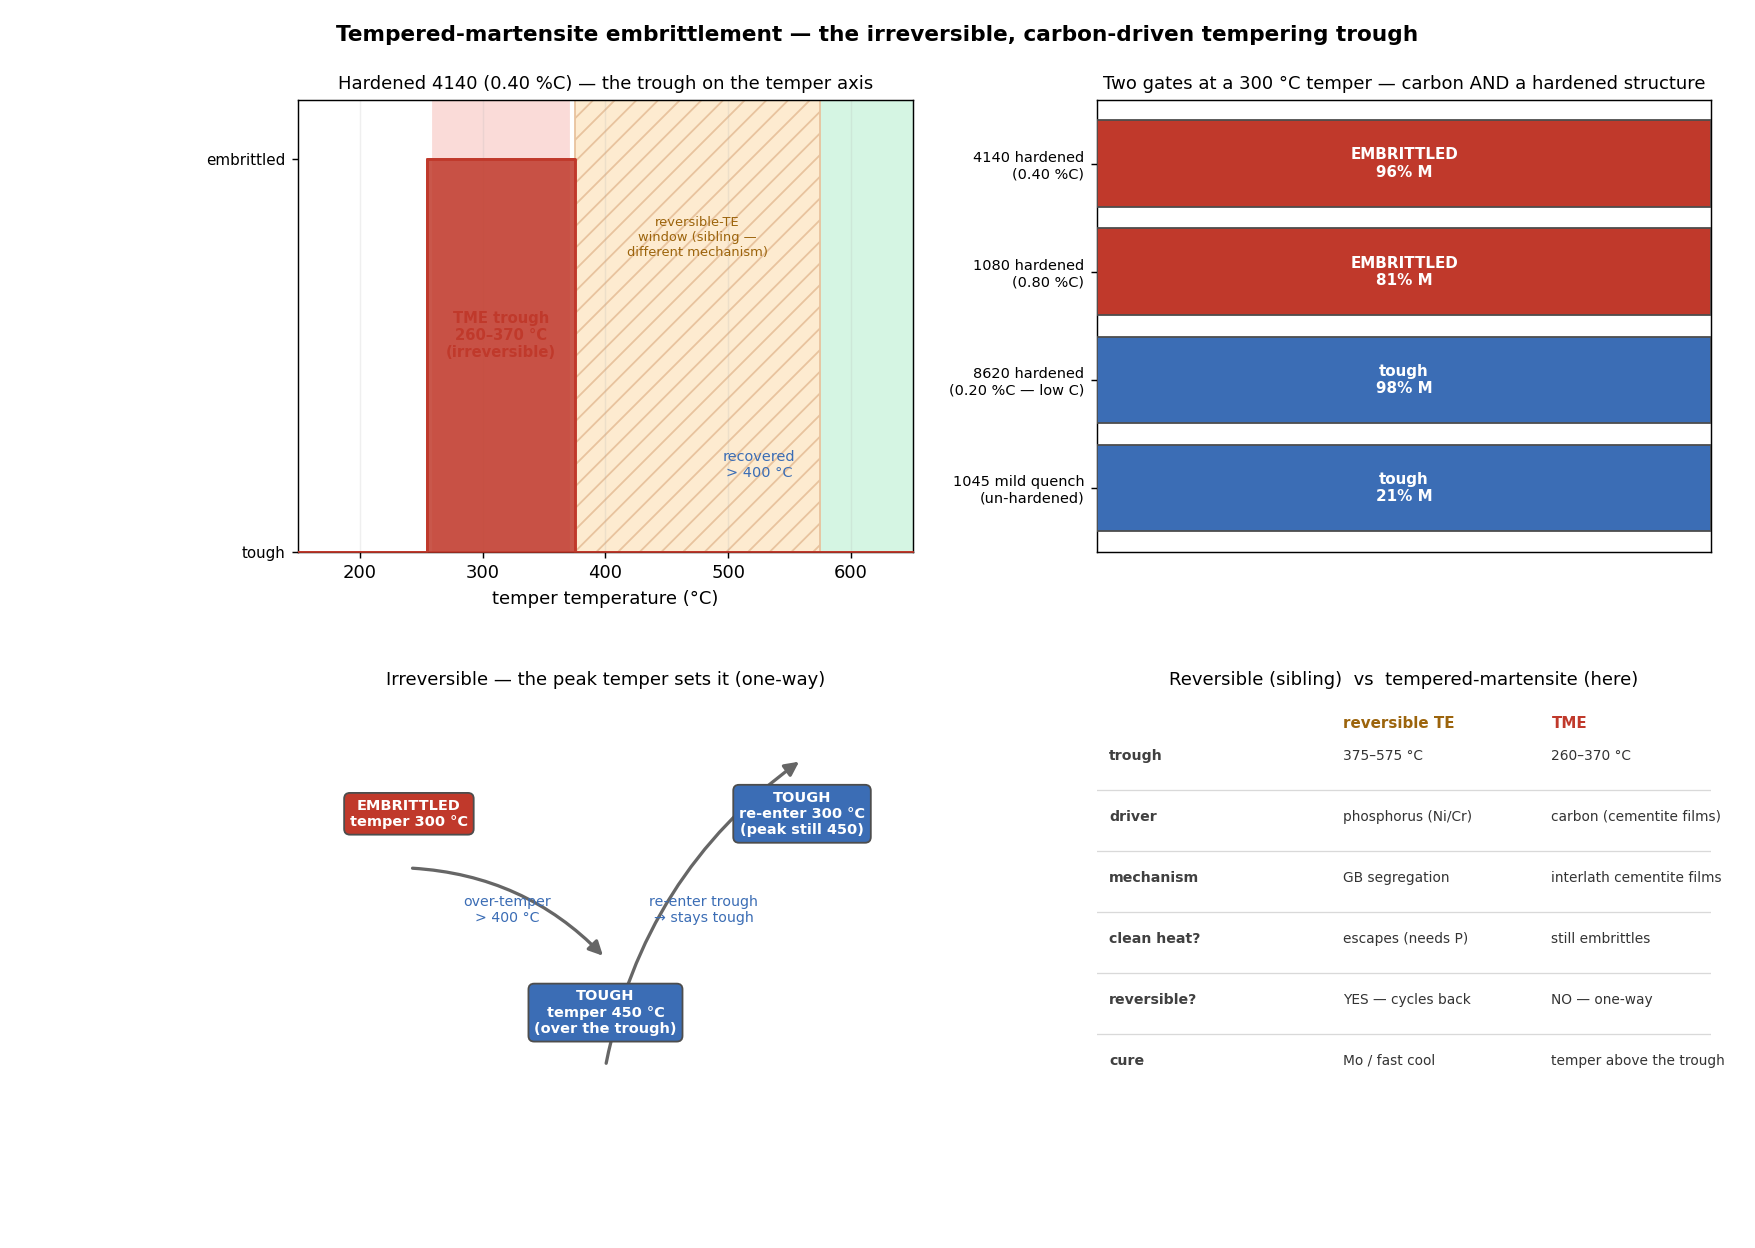
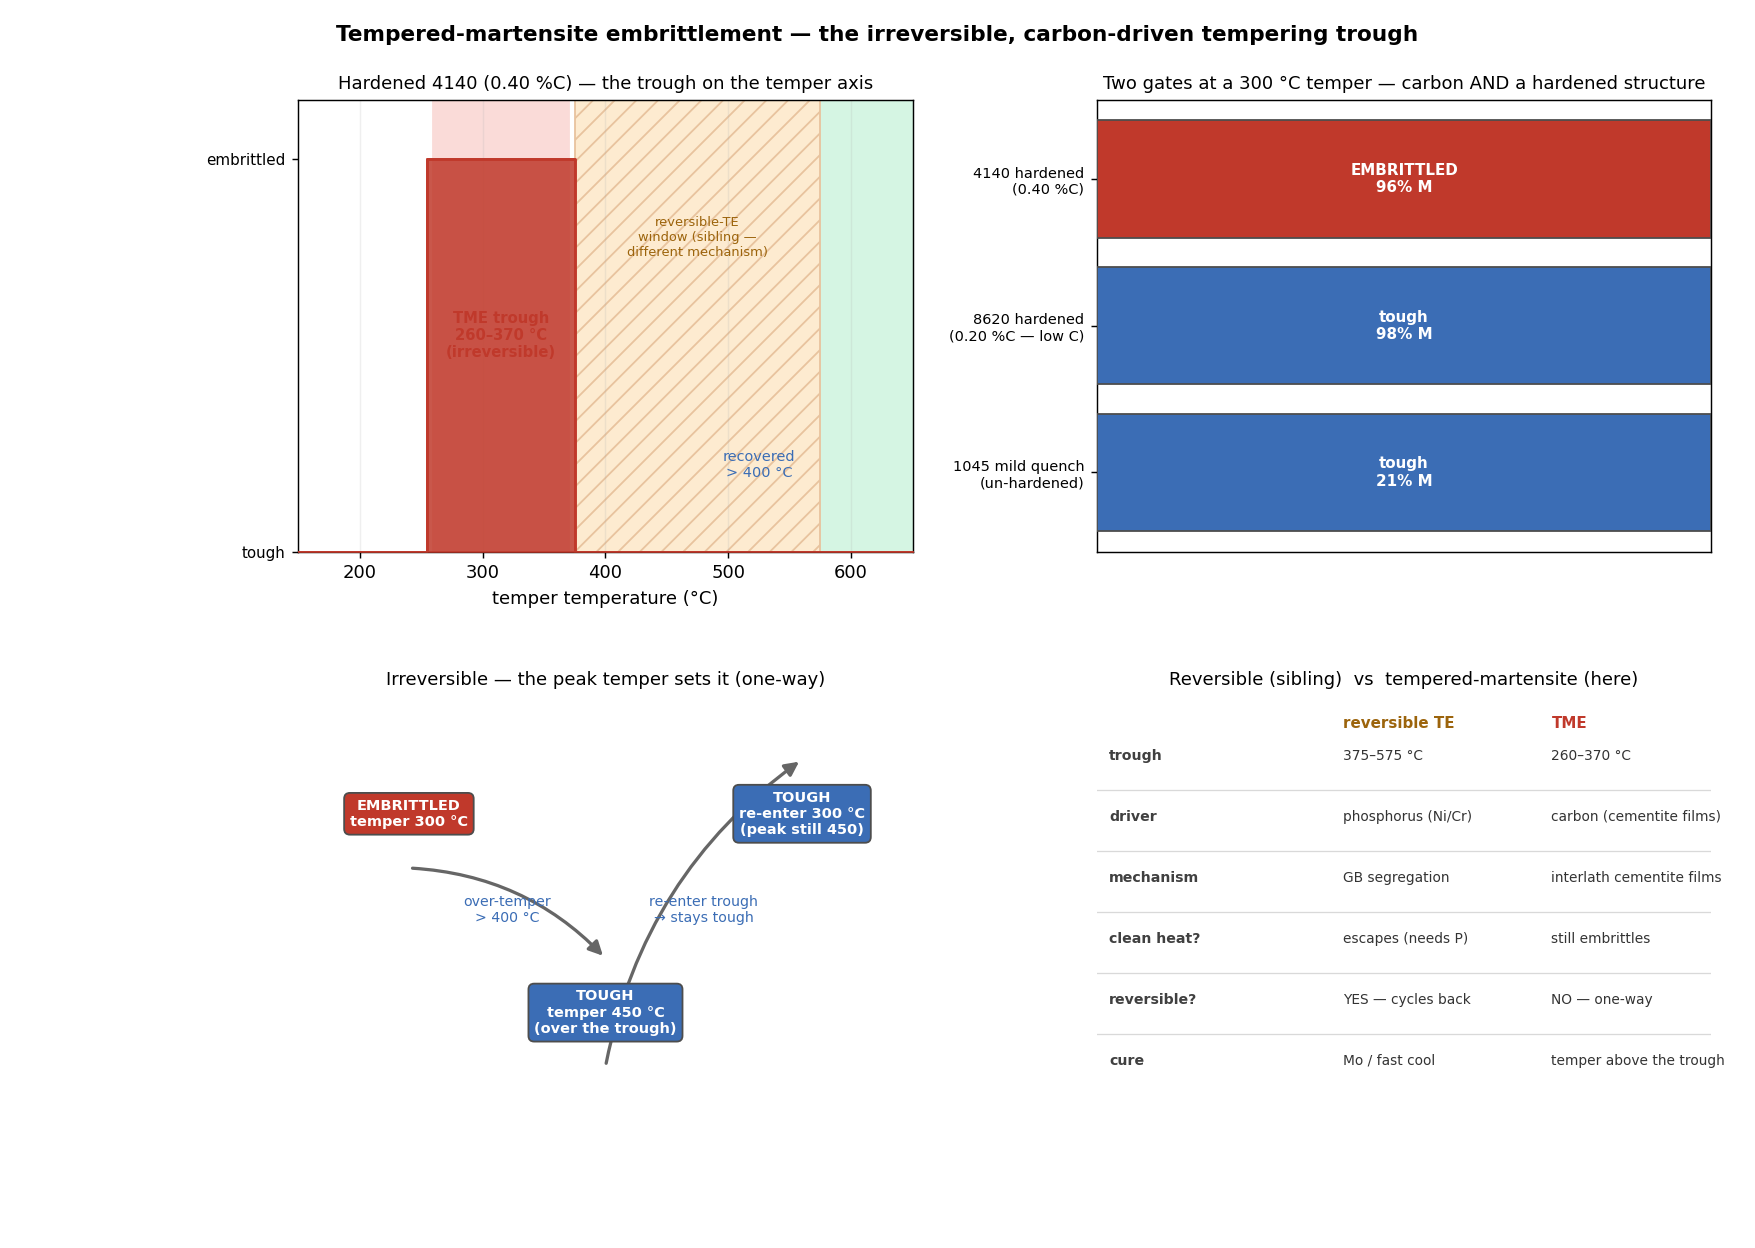
refactor(tempered-martensite-embrittlement): keep the discriminator to lath grades; fix the above-trough verdict string
Advisor final-review polish (both non-blocking):

- Drop the 1080 (0.80 %C) case from the demo discriminator. The carbon gate
  fixed the inverted *ranking*, but flagging high-carbon *plate* martensite as
  embrittled-by-"interlath-retained-austenite-film-decomposition" over-reaches:
  that mechanism is a lath-martensite (<=~0.5 %C) phenomenon; 1080 is embrittled
  at 300 C but by a related cementite-on-twin/PAG-boundary path. The module
  docstring already carried this caveat, so the demo contradicted it. The
  discriminator now stays on lath grades (4140 hero, 8620 carbon-gate miss,
  1045-mild martensitic-gate miss); a no-upper-bound caveat is added to the
  docstring.

- Fix the verdict string for a peak temper in (370, 400): it fell through to
  "tempered below the trough" though it is above, recovering. The embrittled
  flag was already correct; only the human-readable string was wrong.

Suite 742 green / 2 skipped, no engine touch, no ADR.

Changed region(s): [[0.5538, 0.0938, 0.9846, 0.4062], [0.5538, 0.375, 0.6154, 0.4062], [0.5538, 0.125, 0.6154, 0.1562]]

diff --git a/steel/tempered_martensite_embrittlement.py b/steel/tempered_martensite_embrittlement.py
@@ -62,7 +62,10 @@ martensite to embrittle and TME falls out as immune, while a fully-hardened medi
 severity driver: *bulk* RA fraction ranks eutectoid (high-C **plate**-martensite) steels highest, where the
 interlath-film mechanism does not apply — the "looks faithful, physically inverted" trap. Carbon drives the
 gate; the demonstrator confirms low-carbon martensite (e.g. case-hardening 8620 at 0.20 %C) is immune even when
-fully hardened. **Named deferrals:** the absolute toughness-trough depth (no Charpy-J — the back-end
+fully hardened. The carbon gate itself carries **no upper bound** — very-high-carbon *plate* martensite
+(eutectoid 1080) tempered in the trough also embrittles, but by a *related* cementite-on-twin / prior-austenite-
+boundary path, **not** the interlath-RA-film mechanism this slice narrates; so the demonstrator stays on the
+lath-martensite (≲ 0.5 %C) grades the mechanism actually describes. **Named deferrals:** the absolute toughness-trough depth (no Charpy-J — the back-end
 ``toughness_index`` ceiling stands), the P-aggravation magnitude, and the explicit ε→Fe₃C carbide sequence.
 Units: wt % for composition, °C for temperature.
 """
@@ -134,6 +137,8 @@ class TemperedMartensiteEmbrittlement:
             return "low-carbon martensite — too little carbon to form the embrittling cementite films"
         if self.recovered:
             return "over-tempered above the trough — tough, and immune to re-entering it (one-way)"
+        if self.peak_temper_C > TME_WINDOW_C[1]:
+            return "tempered just above the trough — recovering (tough)"
         return "tempered below the trough — no cementite films (yet)"
 
 

diff --git a/steel/tests/test_tempered_martensite_embrittlement.py b/steel/tests/test_tempered_martensite_embrittlement.py
@@ -39,6 +39,13 @@ def test_above_the_recovery_is_tough_and_recovered():
     assert a.recovered and (not a.in_trough) and (not a.embrittled)
 
 
+def test_just_above_the_trough_reads_recovering_not_below():
+    # The (370, 400) band: above the trough, not yet at the recovery threshold — the verdict string must say
+    # "recovering", not "below the trough" (the flag is correctly tough either way).
+    a = tme.tempered_martensite_embrittlement_assessment(VICTIM, HARD, peak_temper_C=385.0)
+    assert (not a.embrittled) and (not a.recovered) and ("recovering" in a.verdict)
+
+
 def test_the_trough_edges_match_the_cited_window():
     lo, hi = tme.TME_WINDOW_C
     assert tme.tempered_martensite_embrittlement_assessment(VICTIM, HARD, peak_temper_C=lo).embrittled

diff --git a/steel/demo_tempered_martensite_embrittlement.py b/steel/demo_tempered_martensite_embrittlement.py
@@ -57,9 +57,12 @@ RECOVERY_TEMPER = 450.0                        # above the ~400 °C recovery —
 REVERSIBLE_WINDOW_C = (375.0, 575.0)           # the SIBLING trough (reversible TE) — marked for orientation only
 
 # Panel-2 discriminator: (label, steel, quench medium, diameter) — the two gates, each on a real quench.
+# Kept to the lath-martensite (≤ ~0.5 %C) grades the interlath-film mechanism describes: 4140 is the embrittled
+# hero, 8620 the carbon-gate miss, 1045-mild the martensitic-gate miss. High-carbon *plate*-martensite (1080)
+# also embrittles in the trough but by a related cementite-on-twin-boundary path — deliberately not shown, so
+# the panel does not attribute the interlath-film mechanism to a structure it does not describe.
 DISCRIMINATOR_CASES: tuple[tuple[str, Steel, str, float], ...] = (
     ("4140 hardened\n(0.40 %C)", STEELS["4140"], "oil", 0.010),
-    ("1080 hardened\n(0.80 %C)", STEELS["1080"], "water", 0.005),
     ("8620 hardened\n(0.20 %C — low C)", STEELS["8620"], "water", 0.005),
     ("1045 mild quench\n(un-hardened)", STEELS["1045"], "oil", 0.010),
 )

diff --git a/steel/tests/test_demo_tempered_martensite_embrittlement.py b/steel/tests/test_demo_tempered_martensite_embrittlement.py
@@ -19,10 +19,11 @@ def test_axis_map_embrittles_exactly_in_the_cited_trough():
 
 
 def test_two_gates_medium_carbon_embrittles_low_carbon_and_unhardened_do_not():
+    # Kept to lath-martensite grades the interlath-film mechanism describes (1080 plate-martensite deliberately
+    # not shown — it embrittles by a related path the panel must not attribute to this mechanism).
     d = compute()
     by_label = {lab.split(chr(10))[0]: emb for lab, _C, _M, emb in d.discriminator}
-    assert by_label["4140 hardened"] is True       # medium-carbon, hardened → embrittled
-    assert by_label["1080 hardened"] is True        # high-carbon, hardened → embrittled
+    assert by_label["4140 hardened"] is True       # medium-carbon, hardened → embrittled (the hero)
     assert by_label["8620 hardened"] is False       # low carbon (0.20 %C) → immune even fully hardened
     assert by_label["1045 mild quench"] is False    # un-hardened → no tempered martensite to embrittle
 

diff --git a/docs/memory/tempered-martensite-embrittlement-built.md b/docs/memory/tempered-martensite-embrittlement-built.md
@@ -14,7 +14,7 @@ named as the back-end `properties.toughness_index` ceiling but never modelled. N
 → the **`tempered-martensite-embrittled`** flag (mirrors `heat_treat`/`hot_work`/`temper_embrittlement`).
 Tempering as-quenched martensite in **260–370 °C** precipitates cementite as **films** on interlath /
 prior-austenite boundaries (Horn–Ritchie 1978: fed by interlath retained-austenite decomposition) → toughness
-trough. Suite **741 green / 2 skipped** (+19), NO engine touch, NO ADR. Demo+figure+gallery card+README row.
+trough. Suite **742 green / 2 skipped** (+20), NO engine touch, NO ADR. Demo+figure+gallery card+README row.
 
 **The slice = the FOIL that completes the pair — opposite on every axis:** TME is **carbon-driven** (not
 impurity — a *clean* medium-carbon steel still embrittles, the headline distinction from reversible TE which
@@ -42,8 +42,17 @@ immune — no tempered martensite to embrittle; un-hardened 1045 at oil-10mm M=0
    *computed bulk retained austenite* (mechanistically the interlath-film source). But bulk RA ranks eutectoid
    **1080 (~0.18 RA, plate martensite)** as the worst victim — where the interlath-film mechanism does NOT apply
    — vs the textbook medium-C low-alloy (4140/4340/300M). → RA cited as **mechanism only**, **CARBON drives the
-   gate**. Discriminating check run before committing: flags 4140 (0.40C), 1080 (0.80C); **8620 (0.20 %C) immune
+   gate**. Discriminating check run before committing: flags 4140 (0.40C); **8620 (0.20 %C) immune
    even fully hardened** (M=0.98) — the low-carbon lath-martensite exemption.
+3. **(post-commit final review) the carbon gate's HIGH end re-opens the same trap — MECHANISM not ranking.**
+   Catch #2 fixed the *ranking*; the un-fixed half is attributing the *interlath-RA-film mechanism* to a
+   structure it doesn't describe. The carbon gate has no upper bound, so it flagged **1080 (0.80C, plate/twinned
+   martensite)** — which IS embrittled at 300 °C but by a *related* cementite-on-twin/PAG-boundary path, NOT the
+   interlath-film one the slice narrates (a lath-martensite, ≲0.5%C phenomenon). The flag isn't false; the
+   *attribution* over-reached. **Fix: dropped 1080 from the demo discriminator** (the demo's own test had
+   *codified* the over-reach — a self-check can't catch this, it only confirms the code does what the code does)
+   + a no-upper-bound caveat in the docstring. Discriminator kept to lath grades: 4140 hero, 8620 carbon-gate
+   miss, 1045-mild martensitic-gate miss.
 
 Registry has no 4340 → used **4140** (0.40C Cr-Mo) as the registry-grounded classic victim. Deferrals: absolute
 trough depth (no Charpy-J — back-end ceiling stands), P-aggravation magnitude, explicit ε→Fe₃C carbide sequence.

diff --git a/docs/plans/steel-making.md b/docs/plans/steel-making.md
@@ -738,8 +738,8 @@ deferred state extensions (P/S on `Steel`) — then **`game/` last**, on the pro
 > the *mechanism* only and **carbon drives the gate** (8620 at 0.20 %C confirms the low-carbon exemption even when
 > fully hardened — the discriminating check, run before committing). **Demo + figure + gallery card:**
 > `demo_tempered_martensite_embrittlement` — the trough on the temper axis, the two gates (carbon +
-> hardenability), the irreversibility cycle, and the reversible↔irreversible contrast. Suite **741 green / 2
-> skipped** (+19), no engine touch, no ADR. **Deferrals:** the absolute trough depth (no Charpy-J — the back-end
+> hardenability), the irreversibility cycle, and the reversible↔irreversible contrast. Suite **742 green / 2
+> skipped** (+20), no engine touch, no ADR. **Deferrals:** the absolute trough depth (no Charpy-J — the back-end
 > ceiling stands), the P-aggravation magnitude, and the explicit ε→Fe₃C carbide sequence.
 
 **The reframe that makes it useful.** The originally-named tramp axes